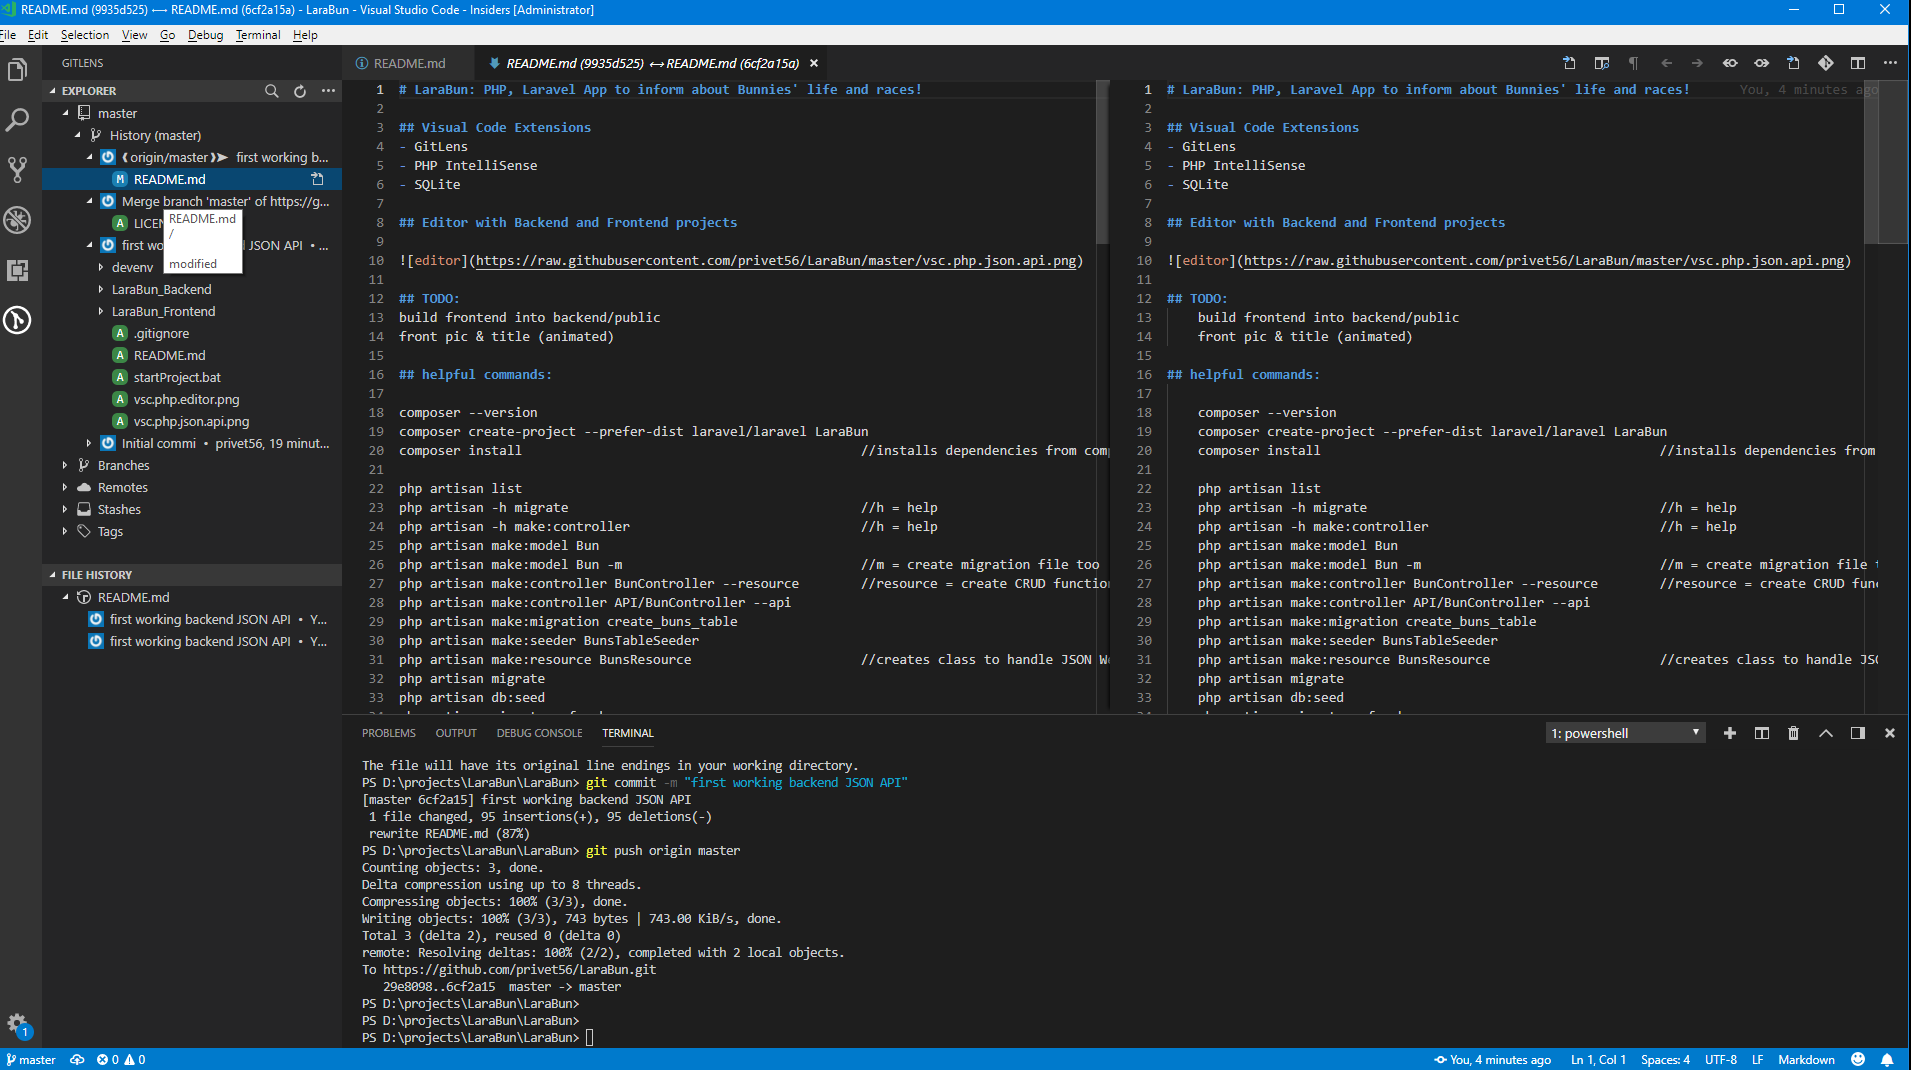
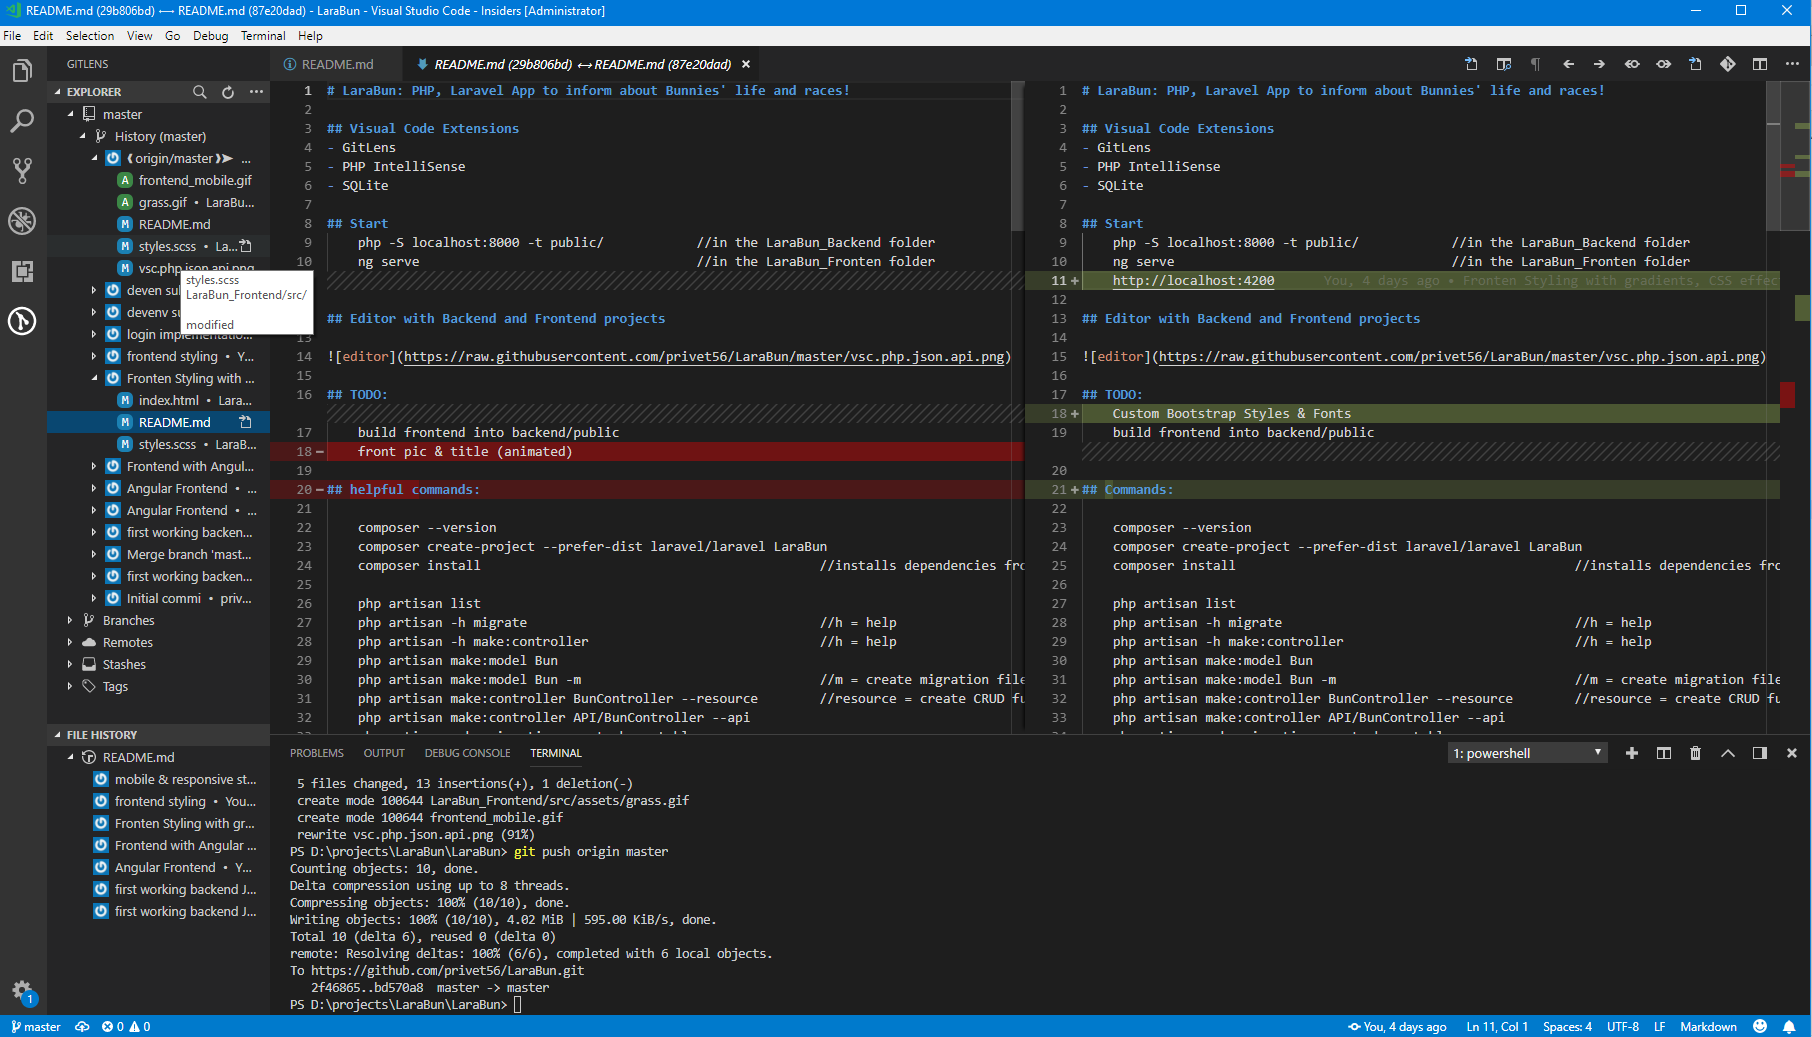
mobile & responsive styling

Changed region(s): [[0.0, 0.0, 1.0, 1.0], [0.0, 0.9257, 0.0927, 1.0]]

diff --git a/README.md b/README.md
@@ -1,14 +1,14 @@
 # LaraBun: PHP, Laravel App to inform about Bunnies' life and races!
 
+## Start App: Backend, Frontend & Browser:
+    php -S localhost:8000 -t public/            //in the LaraBun_Backend folder
+    ng serve                                    //in the LaraBun_Fronten folder
+    http://localhost:4200
+
 ## Visual Code Extensions
 - GitLens
 - PHP IntelliSense
 - SQLite
-
-## Start
-    php -S localhost:8000 -t public/            //in the LaraBun_Backend folder
-    ng serve                                    //in the LaraBun_Fronten folder
-    http://localhost:4200
 
 ## Frontend in front of the Code editor:
 
